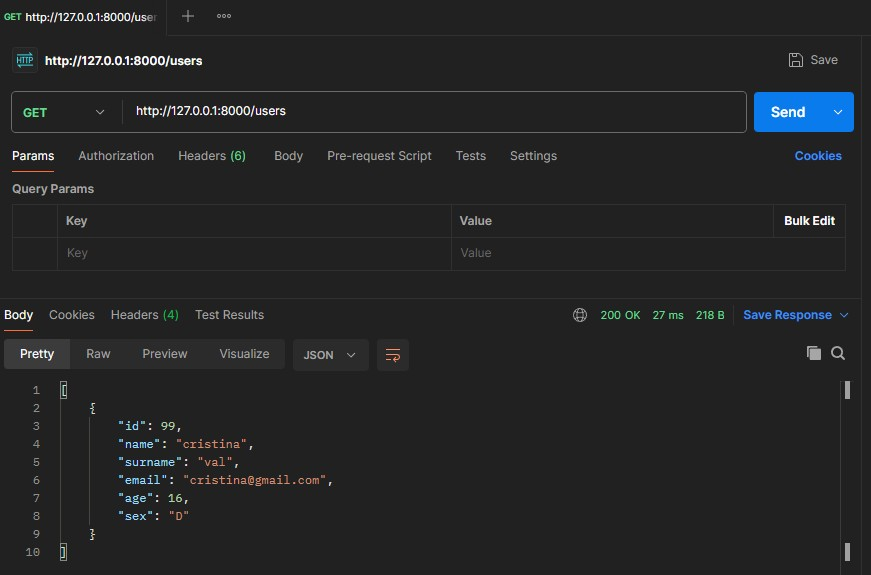
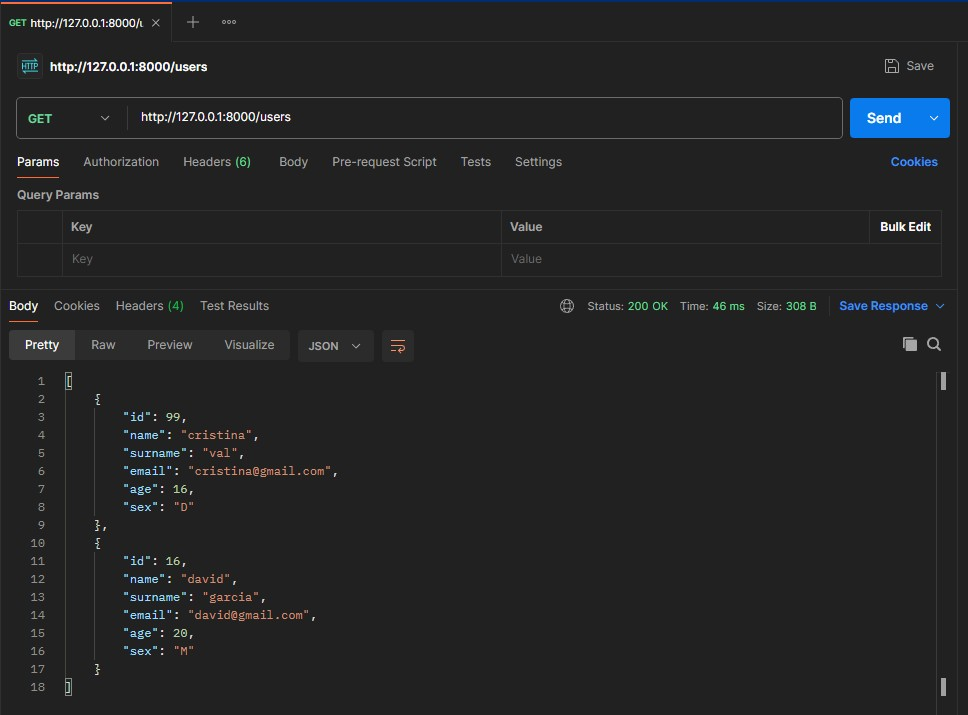
✅ Estructuració d'arxius
Estructuració d'arxius

diff --git a/Activitat_9/main.py b/Activitat_9/main.py
@@ -1,6 +1,6 @@
-import connection
-import user_sch
-import readUsers
+import db_connect.connection as connection
+import schemas.user_sch as user_sch
+import crud.readUsers as readUsers
 from fastapi import FastAPI
 from typing import List
 

diff --git a/Activitat_9/Readme.md b/Activitat_9/Readme.md
@@ -41,7 +41,16 @@ El funcionamiento de éste código consiste en pasar los parámetros item_id e i
 
 ## POSTMAN - Read Users
 
-<img src="./Readme_imgs/readUsers_postman.JPG"/>
+A través del main.py llamamos al resto de archivos (connection.py, readUsers.py, user_sch.py) que estan en sus carpetas correspondientes.
 
-## SWAGGER - Read Users
-<img src="./Readme_imgs/readUsers_swagger.JPG"/>
+Dónde a través de la FastAPI, i un end-point que definimos cómo /users definimos una función que hace lo siguiente:
+
+1. Se conecta a la base de datos de PostgreSQL (connection.py)
+
+2. Ejecuta una consulta SQL para obtener todos los registros de la tabla users, devolviendolo en una lista de tuplas (readUser.py)
+
+3. Transforma las tuplas obtenidas a una lista de diccionario para que la salida sea en formato JSON. (user_sch.py)
+
+Con el objetivo de consultar los usuarios almacenados de la Base de Datos de PostgreSQL que tenemos, a través del end-point /users, devolviendo los registros en formato JSON.
+
+<img src="./Readme_imgs/readUsers_postman.JPG"/>
